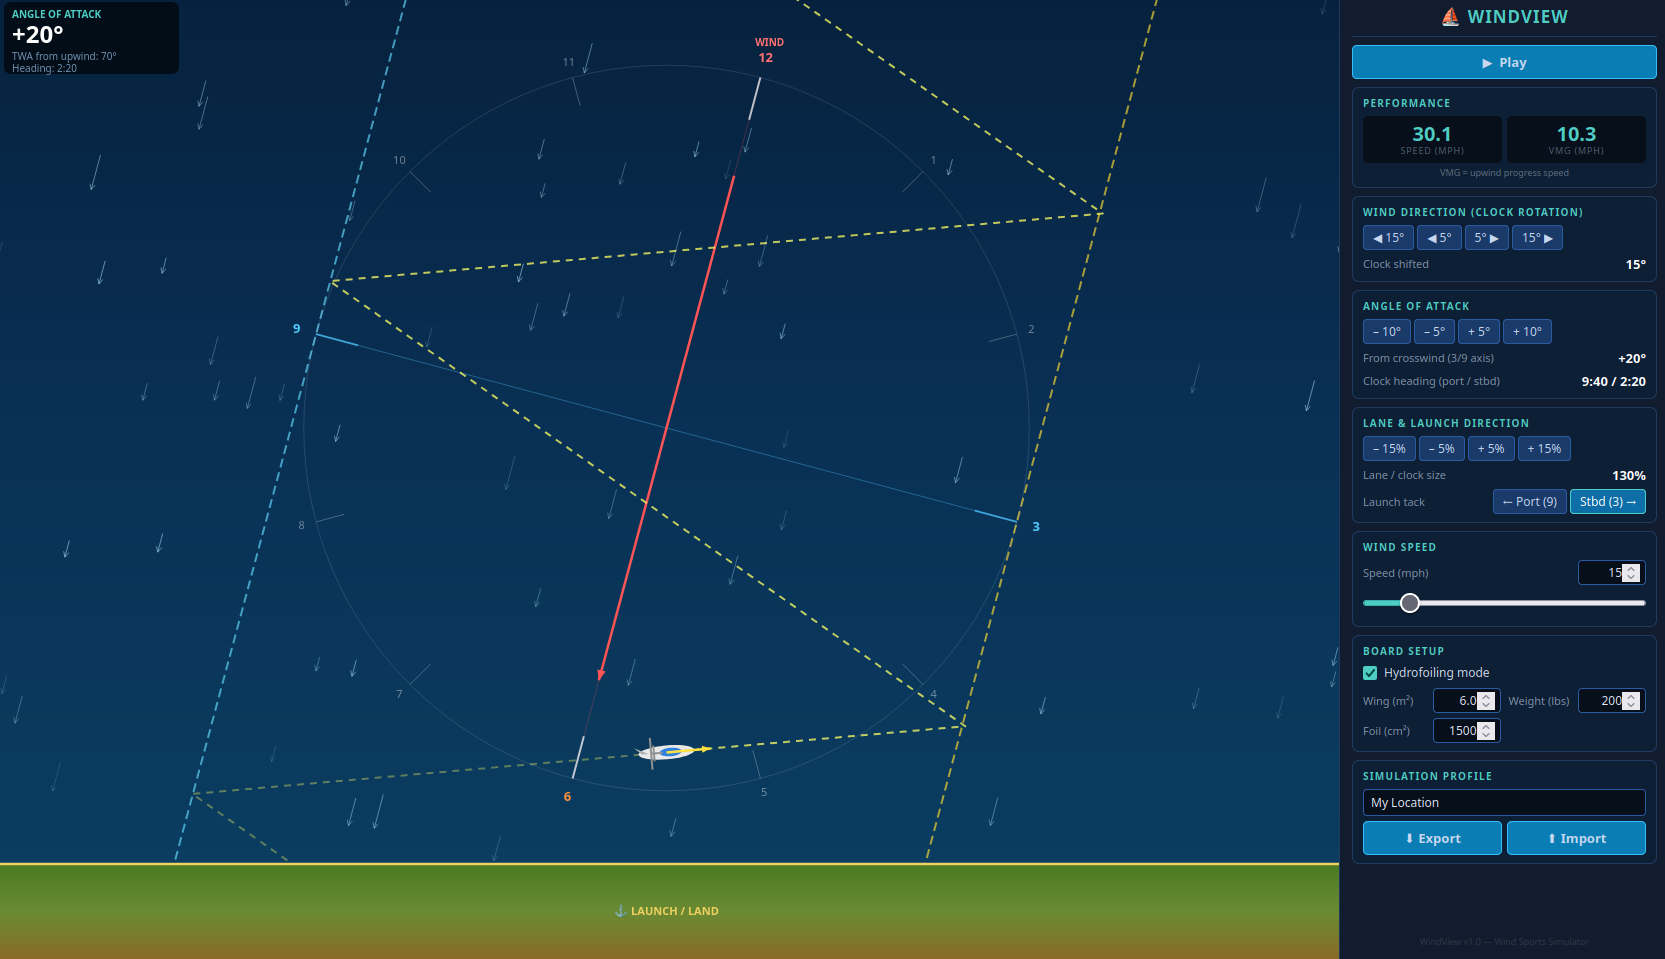
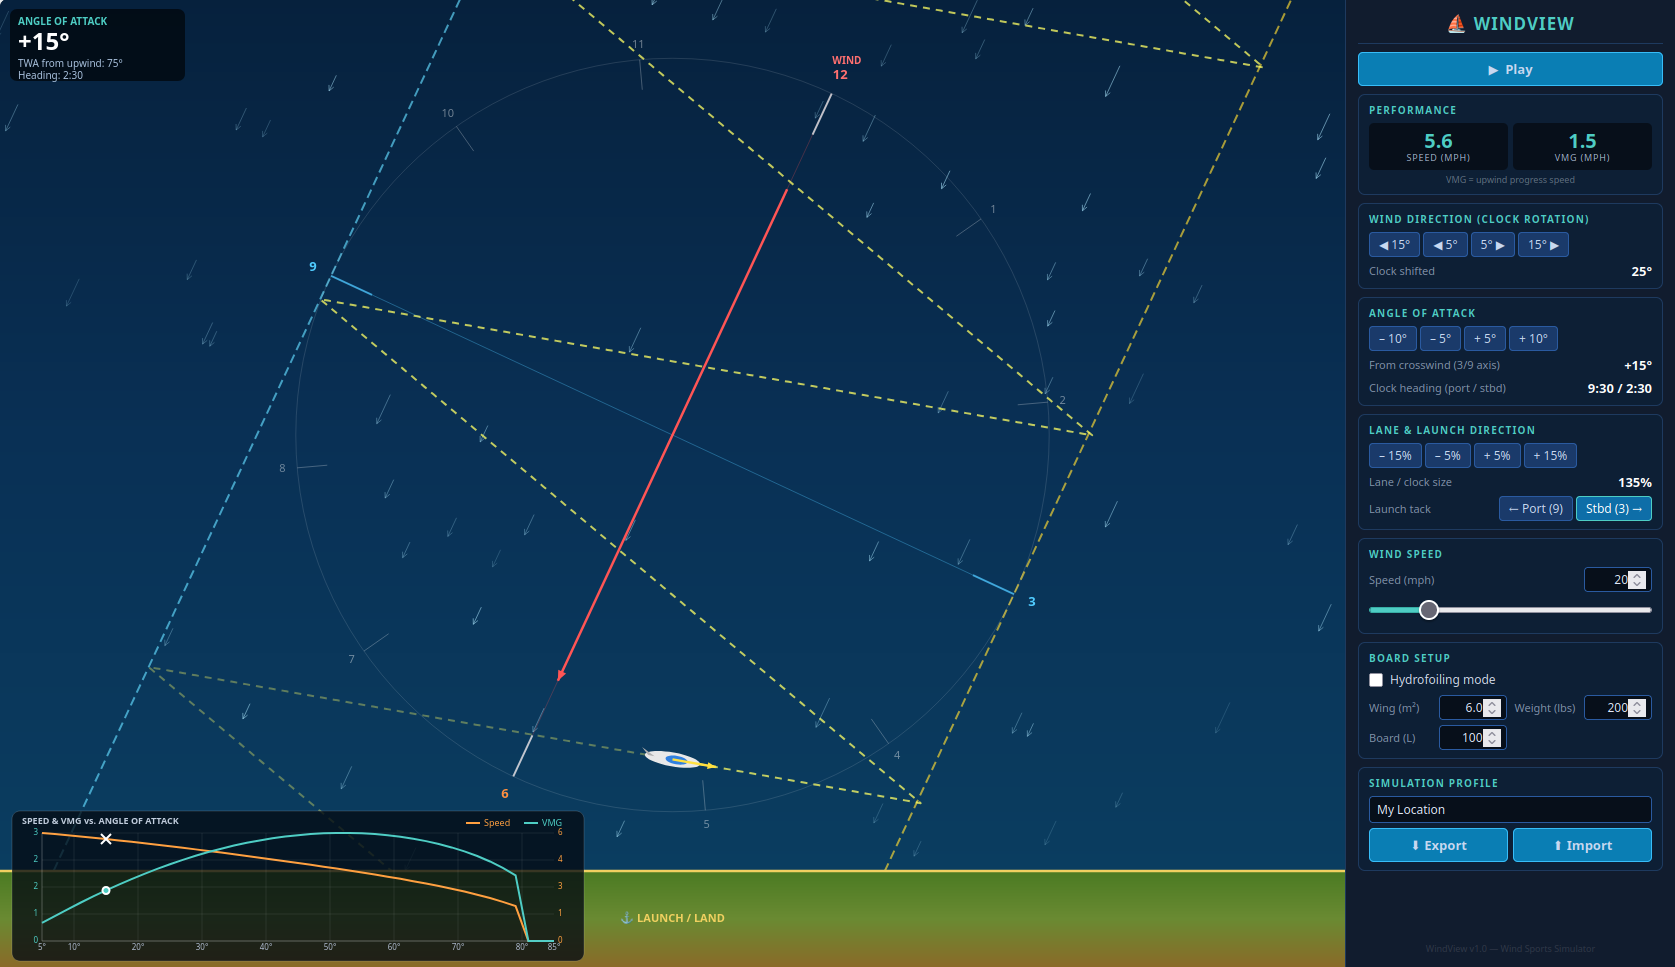
Updated screenshot

diff --git a/README.md b/README.md
@@ -28,7 +28,7 @@ Imagine a clock face lying flat on the surface of the water. The wind always blo
 
 Your board can reach almost any direction — **but not straight into the wind**. There is a "no-go zone" of roughly 38° on either side of 12 o'clock where the wind cannot push you forward no matter what you do.
 
-<a href="https://mraygalaxy.github.io/windview/windview.html"><img width="1665" height="959" alt="image" src="https://github.com/user-attachments/assets/3ed140f6-ebf2-4aed-88b1-9913313db688" /></a>
+<a href="https://mraygalaxy.github.io/windview/windview.html"><img width="1665" height="959" alt="image" src="https://mraygalaxy.github.io/windview/screenshot.png" /></a>
 
 
 ### Going upwind
